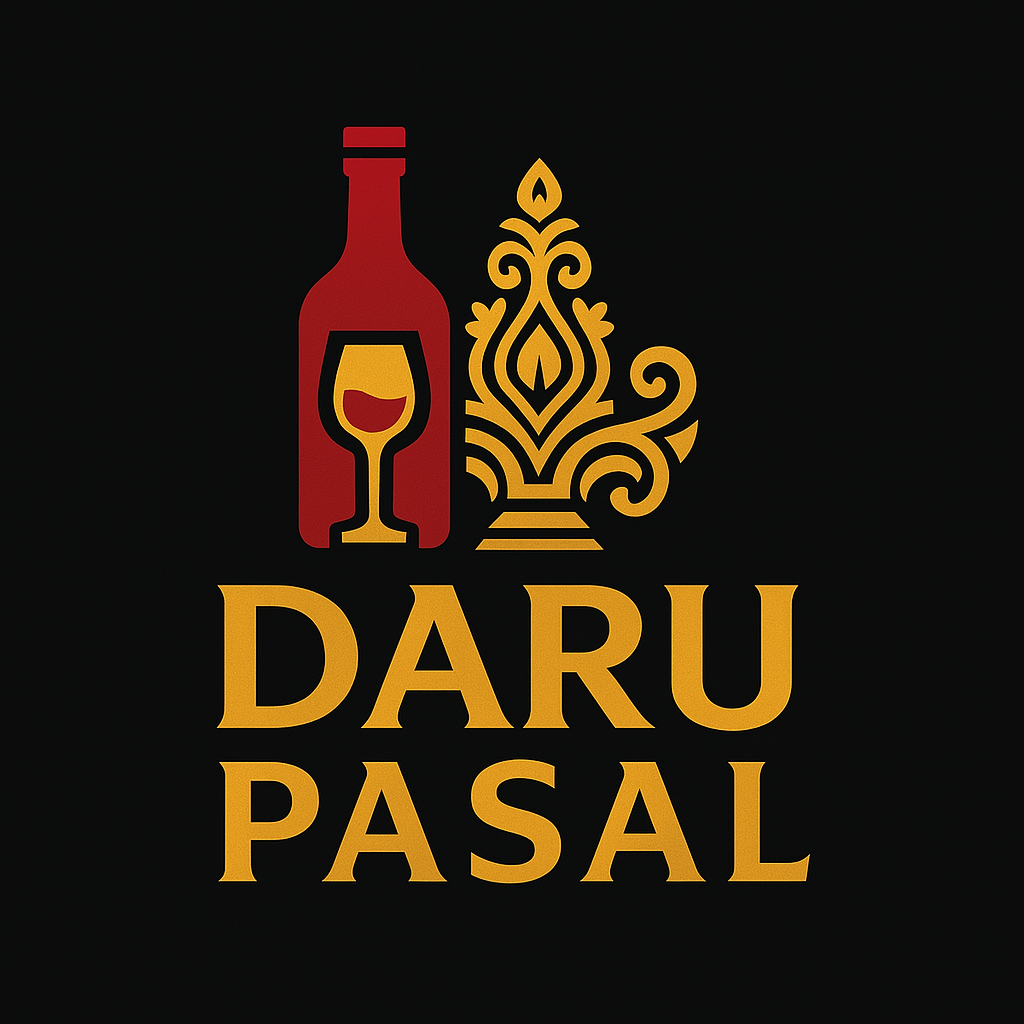
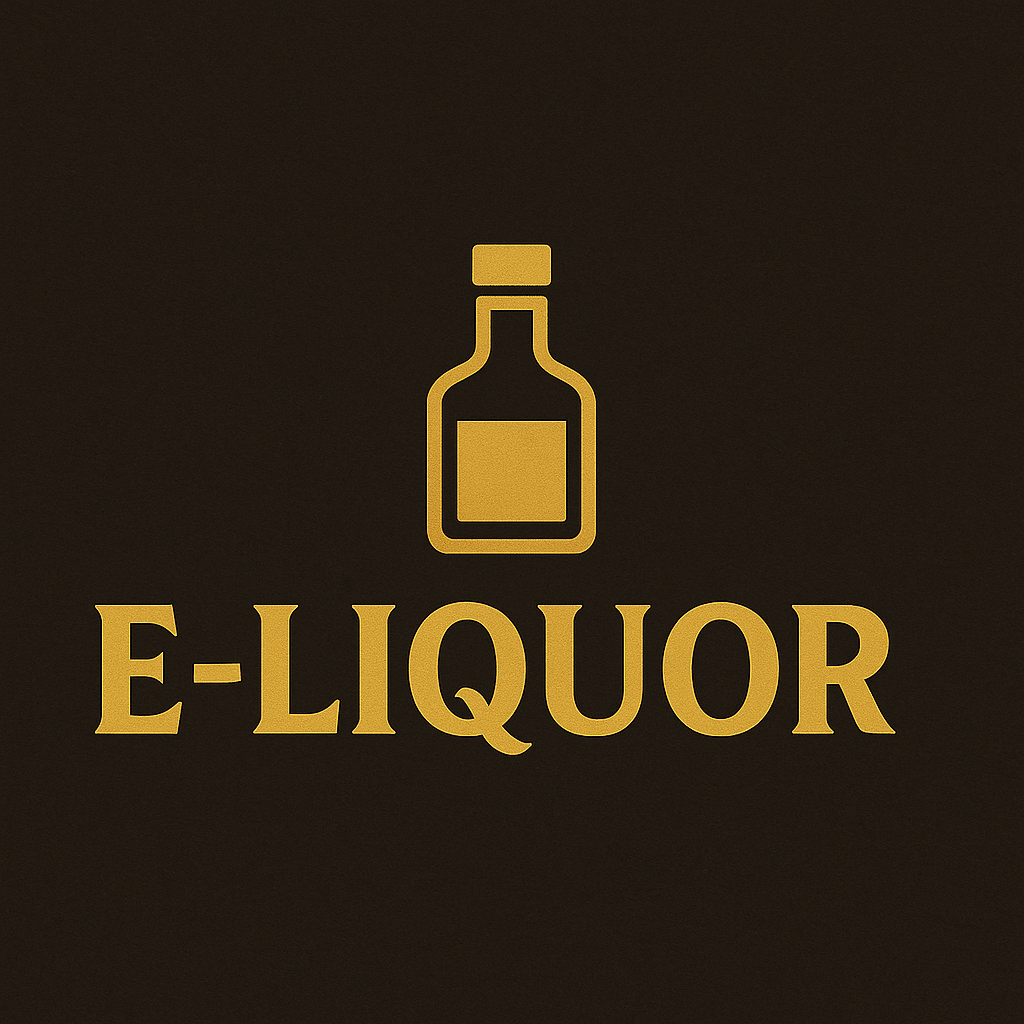
readme file added

diff --git a/ecom-frontend/src/pages/admin/Components/AdminSidebar.jsx b/ecom-frontend/src/pages/admin/Components/AdminSidebar.jsx
@@ -17,7 +17,7 @@ export default function AdminSidebar() {
     <>
       {/* Mobile Top Bar */}
       <div className="md:hidden flex items-center justify-between bg-red-700 text-white p-4">
-        <h1 className="text-xl font-bold">🍷 Daru Pasal Admin</h1>
+        <h1 className="text-xl font-bold">🍷 E-liquor Admin</h1>
         <button onClick={() => setOpen(!open)}>
           <Menu />
         </button>
@@ -35,7 +35,7 @@ export default function AdminSidebar() {
   } md:static md:h-auto`}
 >
 
-        <h1 className="text-2xl font-bold mb-10 hidden md:block">🍷 Daru Pasal Admin</h1>
+        <h1 className="text-2xl font-bold mb-10 hidden md:block">🍷 E-liquor Admin</h1>
         <nav className="space-y-3">
           {menuItems.map((item) => (
             <Link

diff --git a/ecom-frontend/src/pages/Home.jsx b/ecom-frontend/src/pages/Home.jsx
@@ -20,7 +20,7 @@ export default function Home() {
         {/* Overlay Content */}
         <div className="relative z-10 flex flex-col items-center justify-center h-full text-center text-white px-4">
           <h1 className="text-5xl md:text-6xl font-bold mb-4 drop-shadow-lg">
-            Welcome to <span className="text-orange-400">Daru Pasal</span>
+            Welcome to <span className="text-orange-400">E-LIQUOR</span>
           </h1>
           <p className="text-lg md:text-xl max-w-xl mb-8 drop-shadow-md">
             Your one-stop online destination for the finest liquors and spirits.

diff --git a/ecom-frontend/src/components/Navbar.jsx b/ecom-frontend/src/components/Navbar.jsx
@@ -55,7 +55,7 @@ export default function Navbar() {
       {/* Logo */}
       <div className="flex items-center space-x-2">
         <img src="/darupasal_image.png" alt="Logo" className="w-12 h-12 rounded-full" />
-        <span className="text-xl font-bold">Daru Pasal</span>
+        <span className="text-xl font-bold">E-liquor</span>
       </div>
 
       {/* Nav */}

diff --git a/ecom-backend/app/Http/Controllers/Api/EsewaController.php b/ecom-backend/app/Http/Controllers/Api/EsewaController.php
@@ -9,13 +9,13 @@ use App\Models\Payment;
 use App\Models\Product;
 use Illuminate\Http\Request;
 use Illuminate\Support\Facades\Auth;
+use Illuminate\Support\Facades\Http;
 use Illuminate\Support\Facades\Log;
 
 class EsewaController extends Controller
 {
     public function preparePayment(Request $request)
     {
-        // Validate the request to make sure the cart data is coming in as expected
         $request->validate([
             'cart' => 'required|array',
             'cart.*.product_id' => 'required|exists:products,id',
@@ -26,22 +26,19 @@ class EsewaController extends Controller
         $totalAmount = 0;
         $transactionUuid = now()->timestamp;
 
-        // Create an order
+        // Create order
         $order = Order::create([
             'user_id' => $user->id,
-            'status' => 'complete',
+            'status' => 'pending',
         ]);
 
-        // Loop through each product in the cart and process it
         foreach ($request->cart as $item) {
             $product = Product::findOrFail($item['product_id']);
-            $quantity = $item['quantity'] ?? 1;  // Default quantity to 1 if not provided
-
+            $quantity = $item['quantity'] ?? 1;
             $amount = $product->price * $quantity;
             $tax = $amount * 0.10;
-            $totalAmount += $amount + $tax; // Add the total amount to the total
+            $totalAmount += $amount + $tax;
 
-            // Attach the order items
             OrderItem::create([
                 'order_id' => $order->id,
                 'product_id' => $product->id,
@@ -50,11 +47,9 @@ class EsewaController extends Controller
             ]);
         }
 
-        // Calculate the total, tax, and other charges
         $taxAmount = $totalAmount * 0.10;
         $total = $totalAmount + $taxAmount;
 
-        // Create payment record
         Payment::create([
             'order_id' => $order->id,
             'transaction_uuid' => $transactionUuid,
@@ -65,113 +60,82 @@ class EsewaController extends Controller
             'status' => 'pending',
         ]);
 
-        // eSewa signature generation
         $message = "total_amount=$total,transaction_uuid=$transactionUuid,product_code=EPAYTEST";
-        $secret = '8gBm/:&EnhH.1/q'; // Your actual eSewa secret key
+        $secret = '8gBm/:&EnhH.1/q'; // Replace with your real key
         $signature = base64_encode(hash_hmac('sha256', $message, $secret, true));
 
-        // Prepare the response
+        $payload = [
+            "amount" => $totalAmount,
+            "tax_amount" => $taxAmount,
+            "total_amount" => $total,
+            "product_delivery_charge" => "0",
+            "product_service_charge" => "0",
+            "product_code" => "EPAYTEST",
+            "transaction_uuid" => $transactionUuid,
+            "success_url" => route('esewa.success'),
+            "failure_url" => env('FRONTEND_URL', 'http://localhost:5173') . '/Payment/error',
+            "signature" => $signature,
+            "signed_field_names" => "total_amount,transaction_uuid,product_code"
+        ];
+
         return response()->json([
             'success' => true,
-            'message' => 'Payment initialized. Redirect to eSewa.',
+            'message' => 'Payment initialized.',
             'redirect_url' => 'https://rc-epay.esewa.com.np/api/epay/main/v2/form',
-            'data' => [
-                "amount" => $totalAmount,
-                "tax_amount" => $taxAmount,
-                "total_amount" => $total,
-                "product_delivery_charge" => "0",
-                "product_service_charge" => "0",
-                "product_code" => "EPAYTEST",
-                "transaction_uuid" => $transactionUuid,
-                "success_url" => route('esewa.success'),
-                "failure_url" => env('FRONTEND_URL', 'http://localhost:5173') . '/Payment/error',
-                "signature" => $signature,
-                "signed_field_names" => "total_amount,transaction_uuid,product_code"
-            ]
+            'data' => $payload,
         ]);
     }
 
-    
     public function success(Request $request)
     {
         $frontendUrl = env('FRONTEND_URL', 'http://localhost:5173');
-
-        // Step 1: Retrieve the 'data' parameter from the request (query or input)
         $data = $request->query('data') ?? $request->input('data');
 
-        // Test if 'data' is missing, redirect to error page if not found
         if (!$data) {
-            Log::warning('No data received in the request');
             return redirect()->to($frontendUrl . '/payment/error');
         }
 
-        // Step 2: Try to decode and parse the 'data' received
         try {
             $decoded = base64_decode($data);
             $parsed = json_decode($decoded, true);
-            
-            // Log the parsed data for debugging
-            Log::info('Decoded and parsed data', $parsed);
         } catch (\Exception $e) {
             return redirect()->to($frontendUrl . '/payment/error');
         }
 
-        // Step 3: Check if the required fields are present in the parsed data
         $transaction_uuid = $parsed['transaction_uuid'] ?? null;
         $transaction_code = $parsed['transaction_code'] ?? null;
         $status = $parsed['status'] ?? null;
         $total_amount = $parsed['total_amount'] ?? null;
 
-        // If any required field is missing, redirect to error page
         if (!$transaction_uuid || !$transaction_code || !$status || !$total_amount) {
-            Log::warning('Missing required fields in parsed data', ['parsed' => $parsed]);
             return redirect()->to($frontendUrl . '/payment/error');
         }
 
-        // Step 4: Check if the payment is successful (status = COMPLETE)
         if (strtoupper($status) === 'COMPLETE') {
-            // Retrieve the payment based on transaction UUID
             $payment = Payment::where('transaction_uuid', $transaction_uuid)->first();
-
-            // Log the payment status check
-            Log::info('Found payment for transaction_uuid', ['payment_status' => $payment->status]);
-
             if ($payment && strtolower($payment->status) === 'pending') {
-                // Update the payment status to completed
                 $payment->status = 'completed';
                 $payment->save();
 
-                // Update the order status to completed
                 if ($payment->order) {
                     $payment->order->status = 'completed';
                     $payment->order->save();
                 }
-
             }
-
-            // Step 5: Redirect to frontend with a success message
             return redirect()->to($frontendUrl . '/payment/success');
         } else {
-            // If the payment is not successful, redirect to the error page
-            Log::warning('Payment not complete, status: ' . $status);
             return redirect()->to($frontendUrl . '/payment/error');
         }
     }
 
-    /**
-     * Handle eSewa payment failure
-     */
     public function failure(Request $request)
     {
         return response()->json([
             'success' => false,
-            'message' => 'Payment was cancelled or failed.'
+            'message' => 'Payment failed or was cancelled.'
         ]);
     }
 
-    /**
-     * Get all orders for logged-in user
-     */
     public function userOrders()
     {
         $orders = Auth::user()
@@ -179,11 +143,10 @@ class EsewaController extends Controller
             ->with(['items.product', 'payment'])
             ->latest()
             ->get();
-        
 
         return response()->json([
             'success' => true,
-            'message' => 'Fetched your orders.',
+            'message' => 'Fetched orders.',
             'orders' => $orders
         ]);
     }

diff --git a/ecom-backend/app/Http/Controllers/Api/AuthController.php b/ecom-backend/app/Http/Controllers/Api/AuthController.php
@@ -53,35 +53,35 @@ class AuthController extends Controller
     public function login(Request $request)
     {
         // Validate credentials and reCAPTCHA token
-        // $validatedData = $request->validate([
-        //     'email' => ['required', 'email'],
-        //     'password' => ['required'],
-        //     'recaptcha_token' => ['required']
-        // ]);
+        $validatedData = $request->validate([
+            'email' => ['required', 'email'],
+            'password' => ['required'],
+            'recaptcha_token' => ['required']
+        ]);
 
-        // // Verify reCAPTCHA
-        // $response = Http::asForm()->post(env("GOOGLE_RECAPTCHA_URL"), [
-        //     'secret' => env("GOOGLE_RECAPTCHA_SECRET"),
-        //     'response' => $request->recaptcha_token,
-        //     'remoteip' => $request->ip(),
-        // ]);
+        // Verify reCAPTCHA
+        $response = Http::asForm()->post(env("GOOGLE_RECAPTCHA_URL"), [
+            'secret' => env("GOOGLE_RECAPTCHA_SECRET"),
+            'response' => $request->recaptcha_token,
+            'remoteip' => $request->ip(),
+        ]);
 
-        // // Log the response for debugging
-        // Log::info('reCAPTCHA env', [
-        //     'url' => env('GOOGLE_RECAPTCHA_URL'),
-        //     'secret' => env('GOOGLE_RECAPTCHA_SECRET'),
-        // ]);
+        // Log the response for debugging
+        Log::info('reCAPTCHA env', [
+            'url' => env('GOOGLE_RECAPTCHA_URL'),
+            'secret' => env('GOOGLE_RECAPTCHA_SECRET'),
+        ]);
         
-        // $data = $response->json();
+        $data = $response->json();
 
-        // // Ensure $data is an array before logging
-        // Log::info('reCAPTCHA response:', is_array($data) ? $data : ['response' => $data]);
+        // Ensure $data is an array before logging
+        Log::info('reCAPTCHA response:', is_array($data) ? $data : ['response' => $data]);
 
 
-        // // Check if $data is null or if 'success' is not set
-        // if (!$data || !isset($data['success']) || !$data['success']) {
-        //     return response()->json(['message' => 'reCAPTCHA verification failed.',], 422);
-        // }
+        // Check if $data is null or if 'success' is not set
+        if (!$data || !isset($data['success']) || !$data['success']) {
+            return response()->json(['message' => 'reCAPTCHA verification failed.',], 422);
+        }
 
         if (!Auth::attempt($request->only('email', 'password'))) {
             return response()->json(['message' => 'Invalid credentials'], 401);

diff --git a/Readme.md b/Readme.md
@@ -1,0 +1,102 @@
+# E-Commerce Web Application
+
+A full-stack e-commerce web application with a Laravel-powered backend and a modern Vite + TailwindCSS frontend.
+
+## 📁 Project Structure
+
+/
+├── ecom-backend # Laravel-based backend API
+├── ecom-frontend # Vite + TailwindCSS-based frontend
+
+yaml
+Copy
+Edit
+
+---
+
+## 🚀 Features
+
+- 🔐 User authentication and authorization
+- 🛒 Shopping cart functionality
+- 🧾 Product listing and details
+- 📦 Order management
+- 🖥 Responsive frontend UI
+- 🌐 RESTful API integration
+
+---
+
+## 🧰 Tech Stack
+
+### Backend (Laravel)
+
+- PHP
+- Laravel Framework
+- MySQL (or compatible RDBMS)
+- Composer
+
+### Frontend (Vite + React/TailwindCSS)
+
+- JavaScript (ES6+)
+- React (or Vanilla JS if applicable)
+- TailwindCSS
+- Vite
+
+---
+
+## 🔧 Installation
+
+### Prerequisites
+
+- PHP >= 8.1
+- Composer
+- Node.js & npm
+- MySQL or equivalent database
+
+---
+
+## 📦 Backend Setup
+
+```bash
+cd ecom-backend
+
+# Install PHP dependencies
+composer install
+
+# Copy environment file and generate app key
+cp .env.example .env
+php artisan key:generate
+
+# Configure your DB settings in .env
+# Then run migrations
+php artisan migrate
+
+# Optionally seed database
+php artisan db:seed
+
+# Run the development server
+php artisan serve
+💻 Frontend Setup
+bash
+Copy
+Edit
+cd ecom-frontend
+
+# Install JS dependencies
+npm install
+
+# Start the dev server
+npm run dev
+🌐 API Integration
+Ensure the backend server (Laravel) is running (e.g., at http://localhost:8000), and update API URLs in the frontend if necessary.
+
+📂 Environment Variables
+Backend: Configure .env file in ecom-backend.
+
+Frontend: If applicable, configure environment variables in a .env file in ecom-frontend.
+
+
+🙌 Acknowledgements
+Laravel Documentation
+
+Vite.js & TailwindCSS Docs
+
